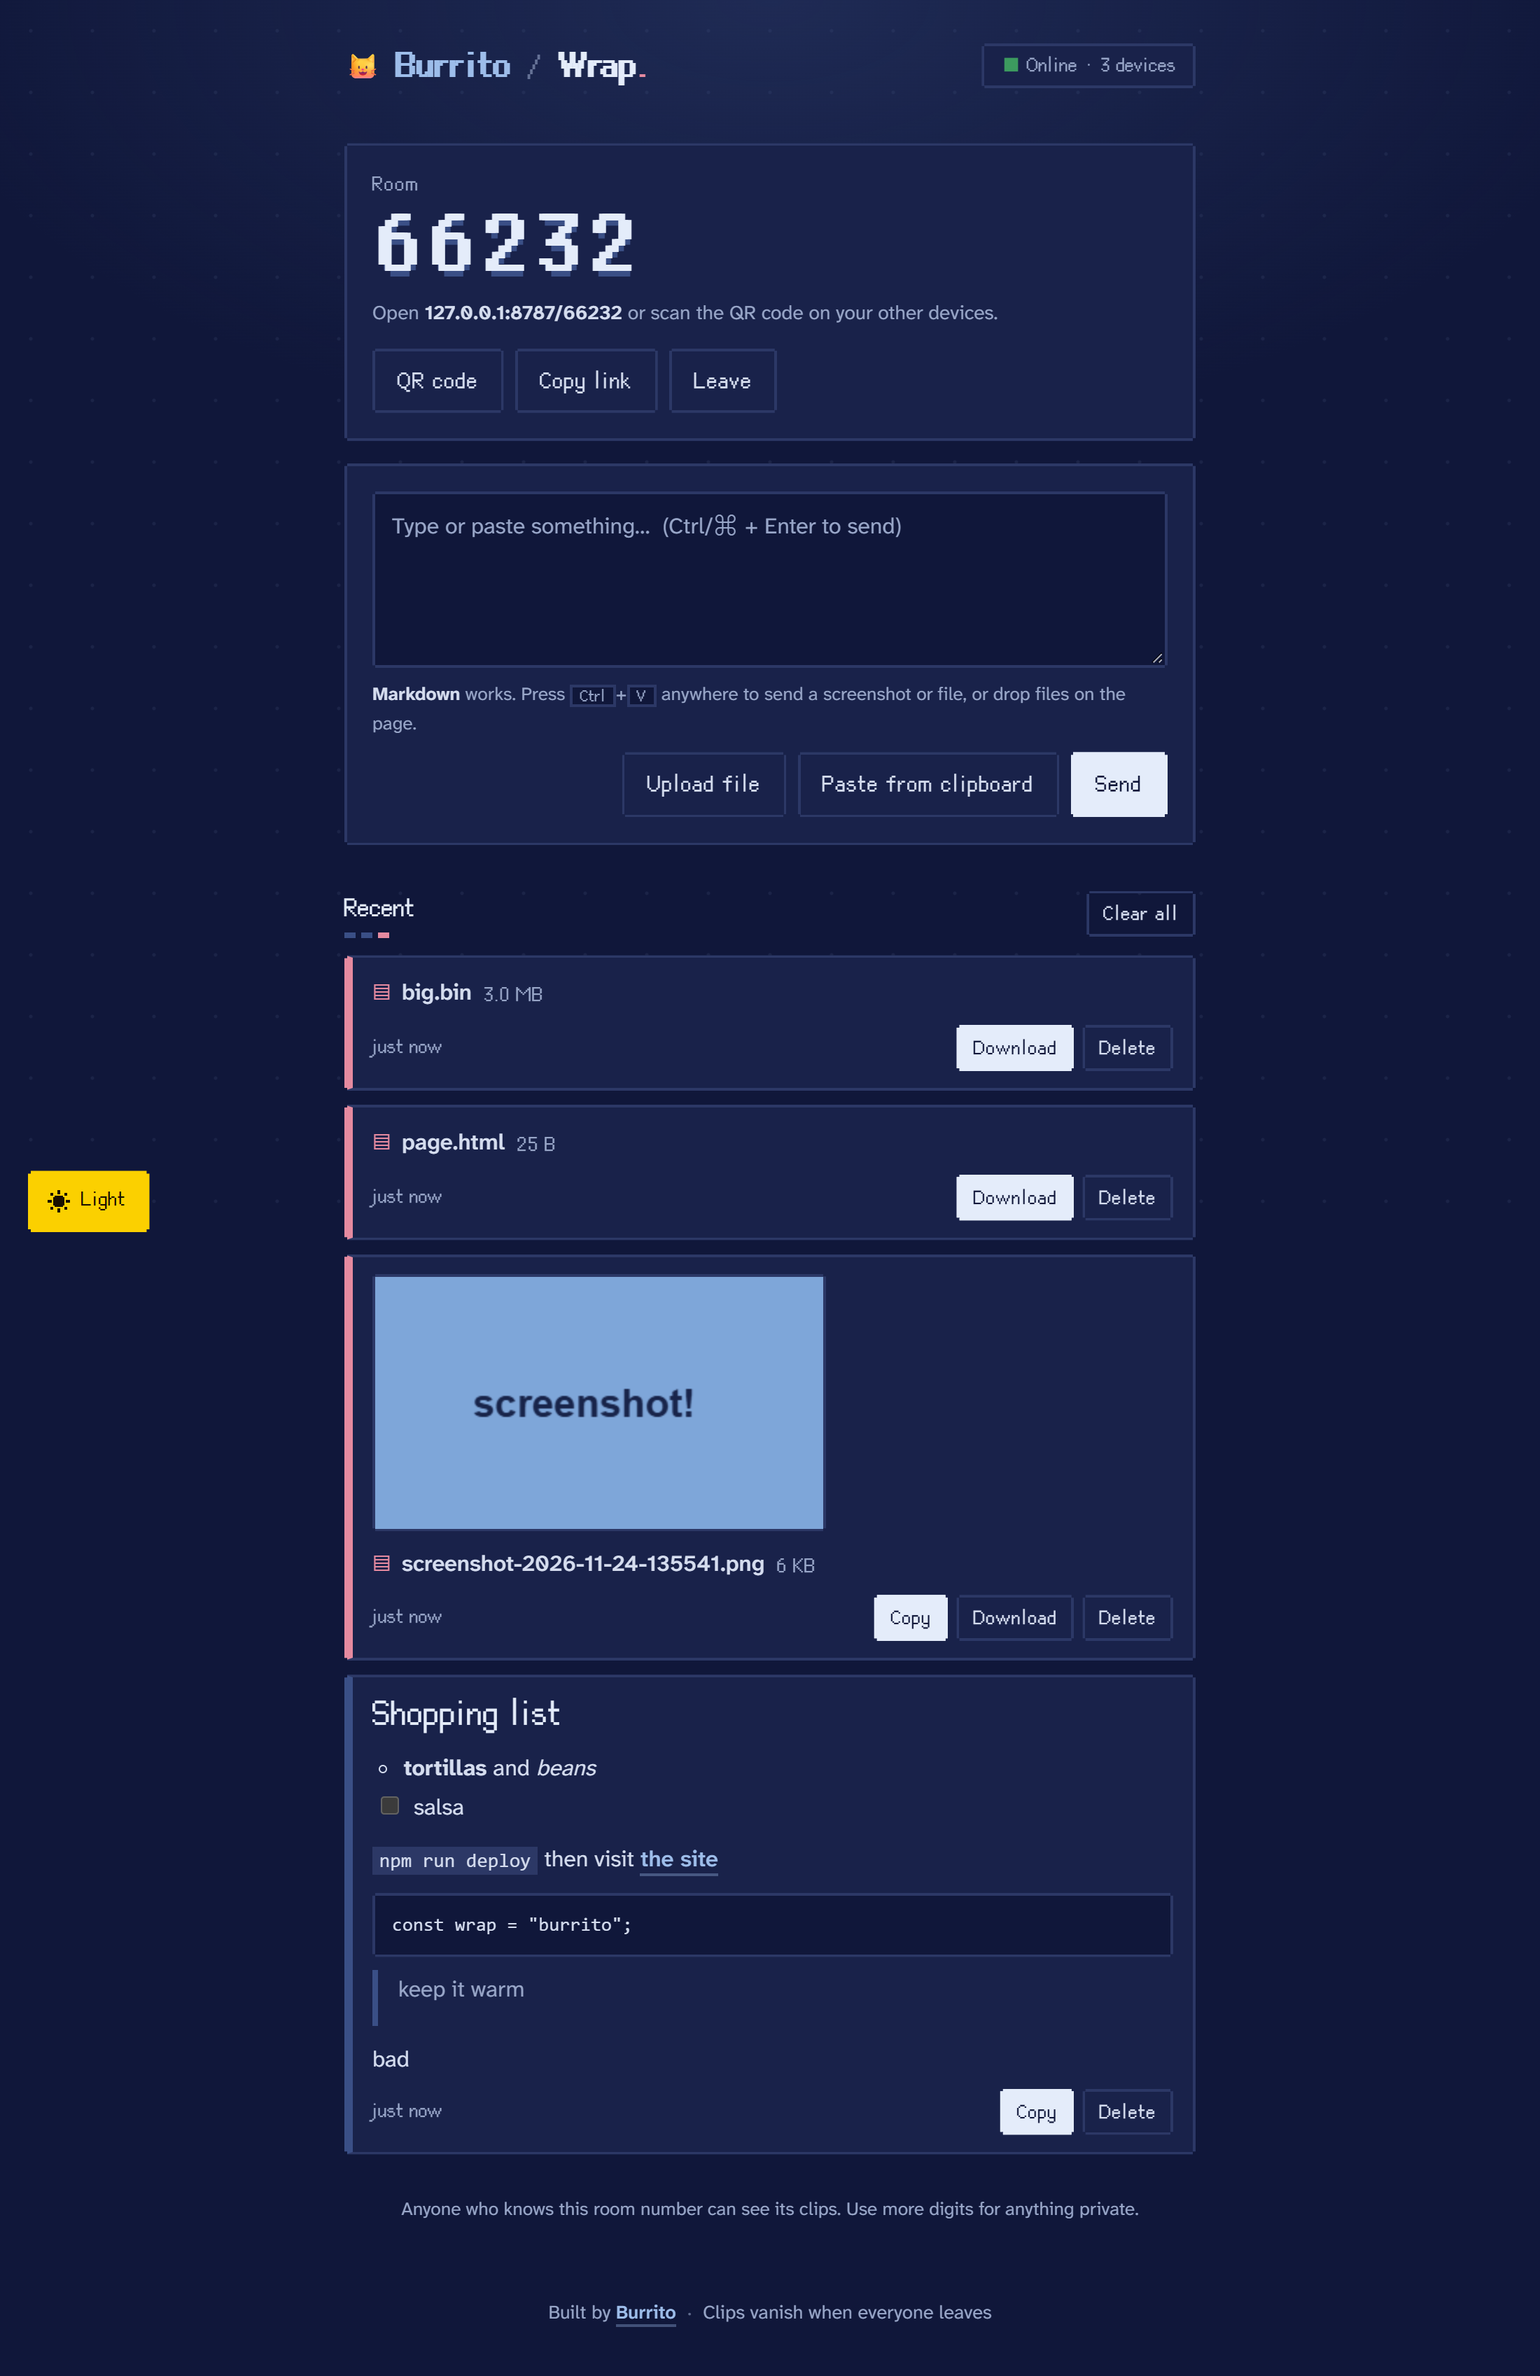
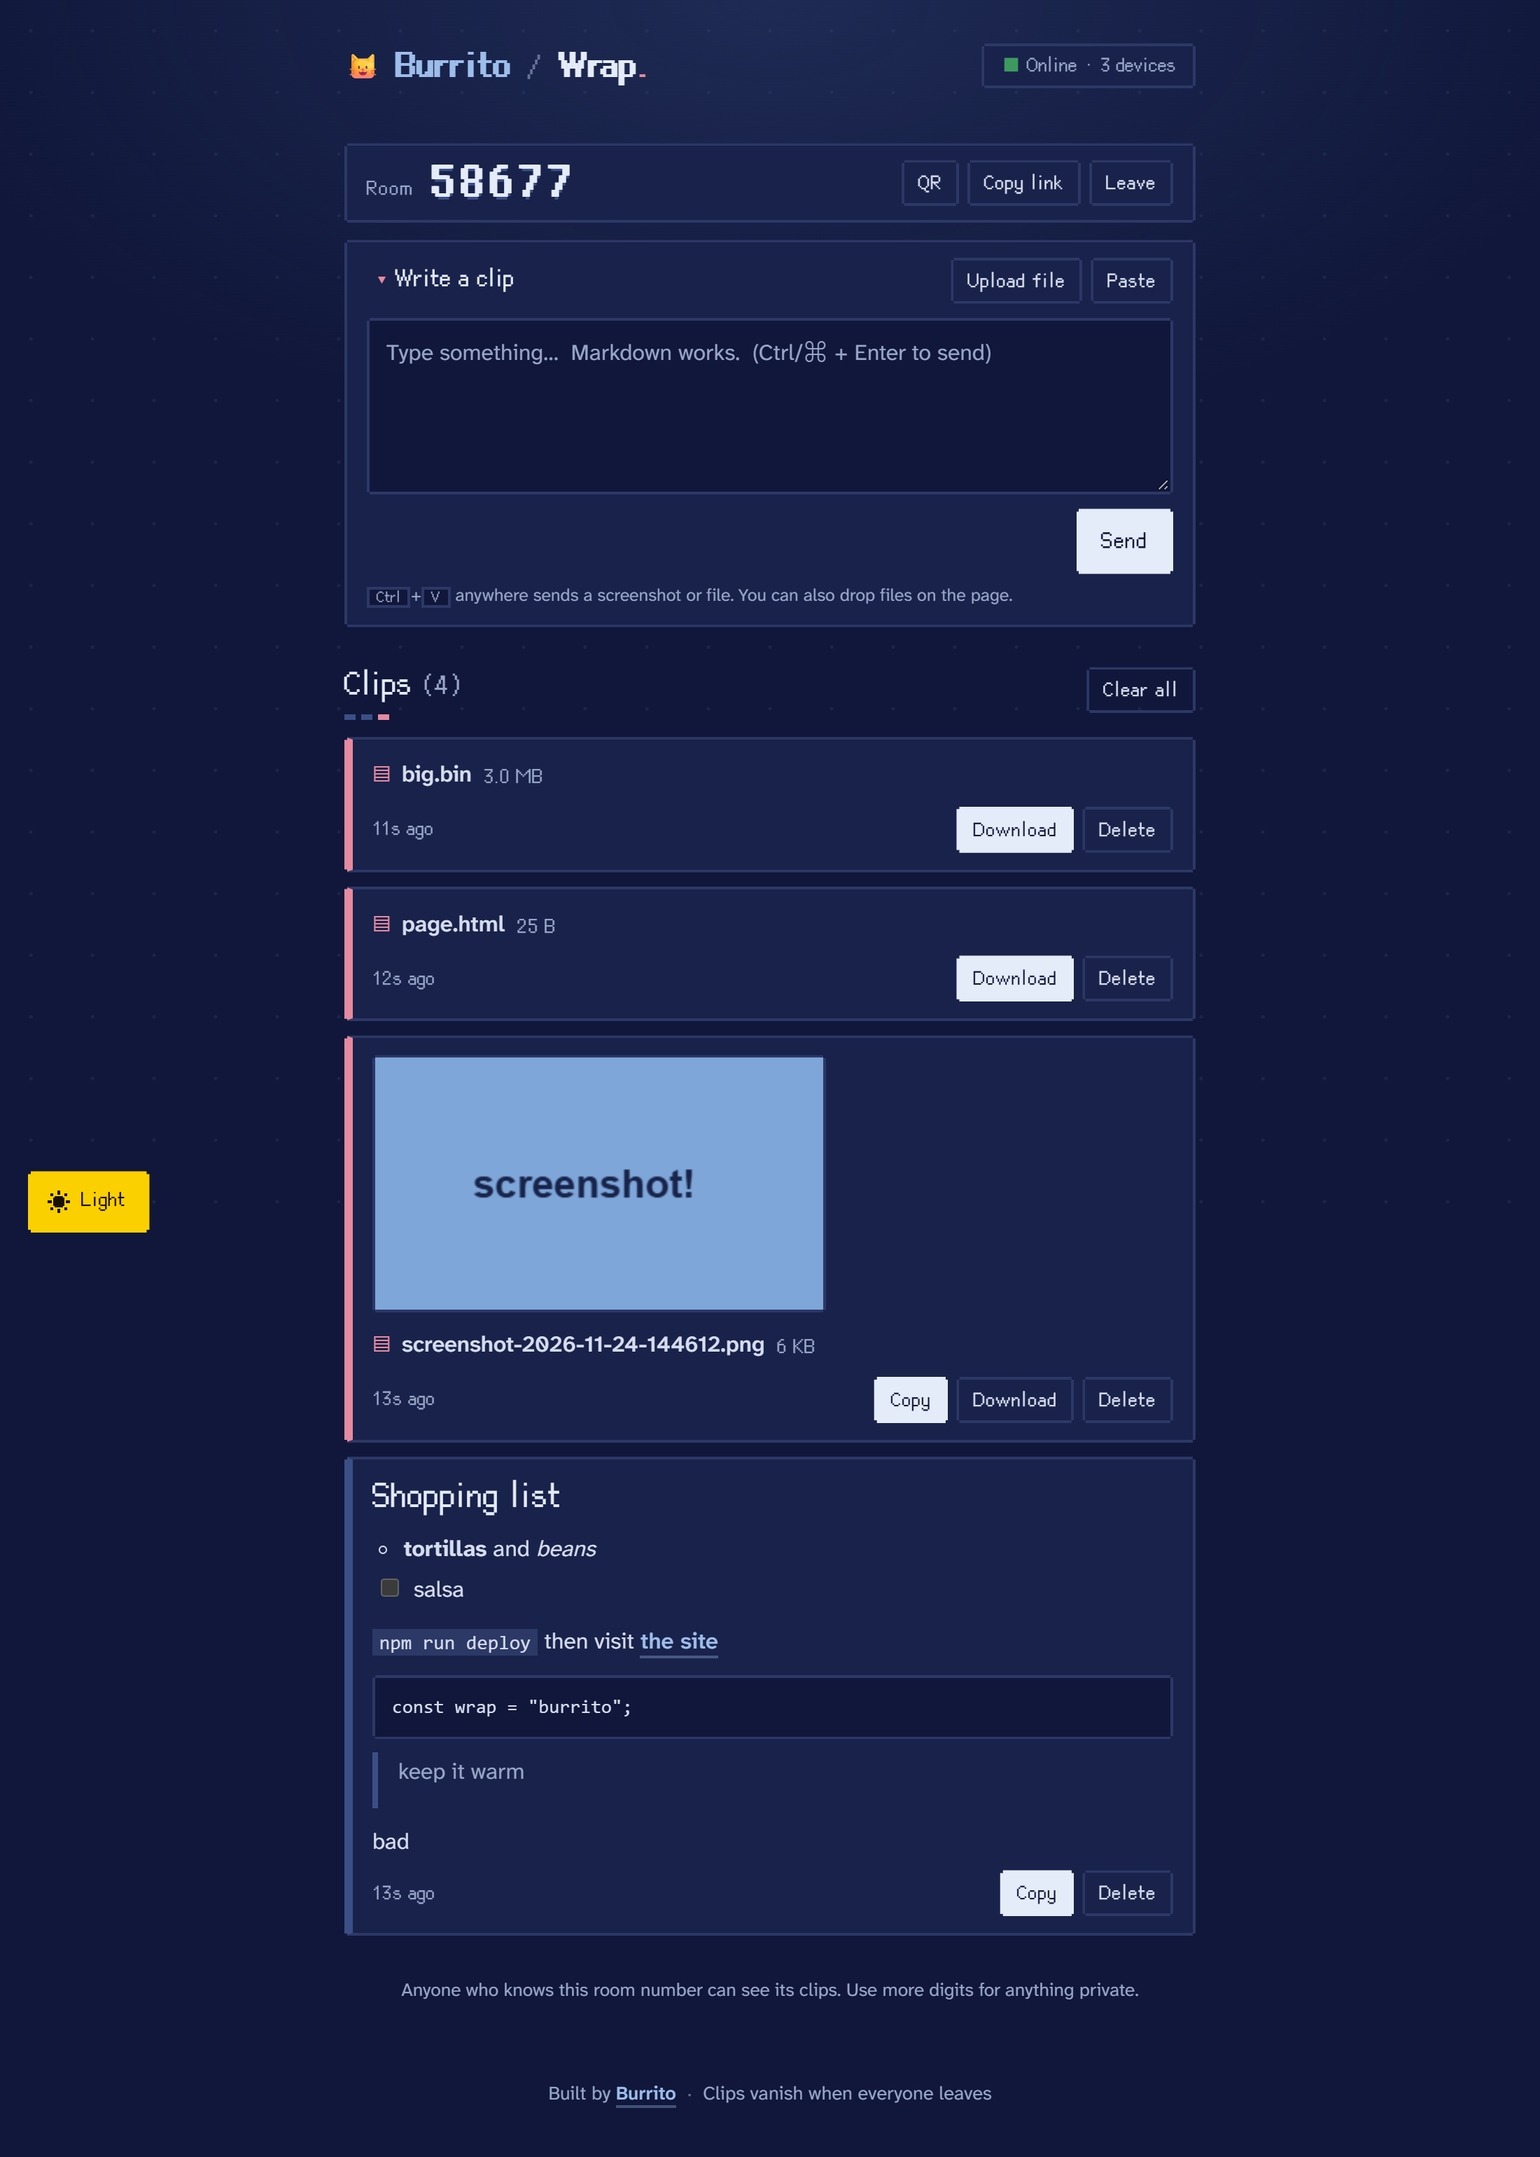
Shrink the room card and make the composer foldable
The room number and sharing buttons now sit in one slim bar, with the
link shown inside the QR panel. The composer folds to a single row
(Upload and Paste stay visible, Ctrl+V still works) and remembers its
state, so the clip list takes most of the page.

diff --git a/public/index.html b/public/index.html
@@ -53,36 +53,47 @@
 
     <!-- Room screen -->
     <section id="room" hidden>
-      <div class="tile pair">
-        <div class="pair-main">
-          <div class="label">Room</div>
-          <div id="code" class="room-code"></div>
-          <div class="hint">Open <b id="room-link"></b> or scan the QR code on your other devices.</div>
+      <!-- Slim room bar: number on the left, sharing tools on the right -->
+      <div class="tile roombar">
+        <div class="roombar-id">
+          <span class="label">Room</span>
+          <span id="code" class="room-code"></span>
         </div>
-        <div class="pair-actions">
-          <button id="show-qr" class="btn">QR code</button>
-          <button id="copy-link" class="btn">Copy link</button>
-          <button id="leave" class="btn ghost">Leave</button>
+        <div class="roombar-actions">
+          <button id="show-qr" class="btn small" aria-expanded="false">QR</button>
+          <button id="copy-link" class="btn small">Copy link</button>
+          <button id="leave" class="btn small ghost">Leave</button>
         </div>
-        <div id="qr" class="qr" hidden></div>
+        <div id="qr" class="qr" hidden>
+          <div id="qr-code"></div>
+          <p class="hint">Scan, or open <b id="room-link"></b> on your other devices.</p>
+        </div>
       </div>
 
+      <!-- Composer: folds down to a single row so the clips get the space -->
       <form id="send-form" class="tile compose">
-        <textarea id="text" rows="4" placeholder="Type or paste something…  (Ctrl/⌘ + Enter to send)"></textarea>
-        <p class="compose-hint">
-          <b>Markdown</b> works. Press <kbd>Ctrl</kbd>+<kbd>V</kbd> anywhere to send a screenshot or file, or drop files on the page.
-        </p>
-        <div class="row end">
-          <input id="file-input" type="file" multiple hidden>
-          <button type="button" id="attach" class="btn">Upload file</button>
-          <button type="button" id="paste" class="btn">Paste from clipboard</button>
-          <button type="submit" class="btn primary">Send</button>
+        <div class="compose-bar">
+          <button type="button" id="compose-toggle" class="compose-toggle" aria-expanded="false" aria-controls="compose-body">
+            <span class="chev" aria-hidden="true">▸</span> Write a clip
+          </button>
+          <div class="compose-quick">
+            <input id="file-input" type="file" multiple hidden>
+            <button type="button" id="attach" class="btn small">Upload file</button>
+            <button type="button" id="paste" class="btn small">Paste</button>
+          </div>
         </div>
+        <div id="compose-body" class="compose-body" hidden>
+          <textarea id="text" rows="4" placeholder="Type something…  Markdown works.  (Ctrl/⌘ + Enter to send)"></textarea>
+          <div class="row end">
+            <button type="submit" class="btn primary">Send</button>
+          </div>
+        </div>
+        <p class="compose-hint"><kbd>Ctrl</kbd>+<kbd>V</kbd> anywhere sends a screenshot or file. You can also drop files on the page.</p>
         <div id="uploads" class="uploads" hidden></div>
       </form>
 
       <div class="list-head">
-        <h2 class="section-title">Recent</h2>
+        <h2 class="section-title">Clips <span id="clip-count" class="count"></span></h2>
         <button id="clear" class="btn ghost small">Clear all</button>
       </div>
       <ul id="clips" class="clips"></ul>

diff --git a/public/style.css b/public/style.css
@@ -272,21 +272,38 @@ button, input, textarea { font: inherit; color: inherit; }
 
 /* ---------- Room screen ---------- */
 
-.pair { display: grid; gap: 14px; }
-.pair-actions { display: flex; flex-wrap: wrap; gap: 8px; }
+/* Slim room bar */
+.roombar {
+  display: flex;
+  flex-wrap: wrap;
+  align-items: center;
+  justify-content: space-between;
+  gap: 8px 14px;
+  padding: 10px 14px;
+  margin-bottom: 12px;
+}
+.roombar-id { display: flex; align-items: baseline; gap: 10px; }
+.roombar-actions { display: flex; flex-wrap: wrap; gap: 6px; }
 
-/* Big pixel digits with the blue offset shadow from the burrito.rip title */
+/* Pixel digits with the blue offset shadow from the burrito.rip title */
 .room-code {
   font-family: var(--font-pixel);
-  font-size: 3.4rem;
-  line-height: 1.1;
-  letter-spacing: 0.12em;
+  font-size: 1.9rem;
+  line-height: 1;
+  letter-spacing: 0.1em;
   color: var(--navy);
   text-shadow: var(--px-bold), 0.07em 0.07em 0 var(--fur);
-  margin: 2px 0 6px;
 }
 
-.qr { grid-column: 1 / -1; display: flex; justify-content: center; }
+.qr {
+  flex-basis: 100%;
+  display: flex;
+  flex-direction: column;
+  align-items: center;
+  gap: 4px;
+  padding: 8px 0 4px;
+  text-align: center;
+}
 .qr svg {
   width: 220px; height: 220px;
   background: #fff; padding: 12px;
@@ -307,7 +324,9 @@ textarea {
 textarea:focus { outline: none; border-color: var(--steel); }
 textarea::placeholder { color: var(--muted); }
 
-.list-head { display: flex; justify-content: space-between; align-items: center; margin: 32px 0 12px; }
+.list-head { display: flex; justify-content: space-between; align-items: center; margin: 24px 0 12px; }
+.list-head .section-title { font-size: 1.35rem; }
+.count { color: var(--muted); font-size: 0.8em; }
 
 .clips { list-style: none; margin: 0; padding: 0; display: flex; flex-direction: column; gap: 10px; }
 .clip {
@@ -404,8 +423,25 @@ a.btn { display: inline-block; text-decoration: none; }
 
 /* ---------- Composer extras ---------- */
 
-.compose-hint { color: var(--muted); font-size: 0.82rem; margin: -2px 0 10px; }
-.compose-hint b { color: var(--text); }
+/* Foldable composer */
+.compose { padding: 10px 14px; margin-bottom: 12px; }
+.compose-bar { display: flex; flex-wrap: wrap; align-items: center; justify-content: space-between; gap: 8px; }
+.compose-toggle {
+  background: none;
+  border: 0;
+  padding: 4px 2px;
+  cursor: pointer;
+  font-family: var(--font-pixel);
+  font-size: 1rem;
+  color: var(--navy);
+}
+.compose-toggle:hover { color: var(--steel); }
+.compose-toggle:focus-visible { outline: 2px solid var(--steel); outline-offset: 2px; }
+.chev { display: inline-block; transition: transform 0.16s ease-out; color: var(--nose); }
+.compose.open .chev { transform: rotate(90deg); }
+.compose-quick { display: flex; gap: 6px; }
+.compose-body { margin-top: 10px; }
+.compose-hint { color: var(--muted); font-size: 0.78rem; margin: 6px 0 0; }
 kbd {
   font-family: var(--font-pixel);
   font-size: 0.8em;
@@ -499,7 +535,8 @@ kbd {
   .crumb-mark { font-size: 1rem; }
   .crumb-divider { font-size: 1.05rem; }
   .app-footer { margin-top: -80px; padding-bottom: 88px; }
-  .room-code { font-size: 2.8rem; }
+  .room-code { font-size: 1.6rem; }
+  .compose-hint { display: none; } /* no Ctrl+V on phones */
   .code-input { font-size: 2.4rem; }
   .theme-toggle { padding: 10px; }
   .theme-label { display: none; }

diff --git a/public/app.js b/public/app.js
@@ -155,6 +155,7 @@ function renderClips(newId) {
   const clips = [...state.clips.values()].sort((a, b) => b.ts - a.ts);
   $("empty").hidden = clips.length > 0;
   $("clear").hidden = clips.length === 0;
+  $("clip-count").textContent = clips.length ? `(${clips.length})` : "";
 
   for (const clip of clips) {
     const isFile = clip.kind === "file";
@@ -284,13 +285,31 @@ setInterval(() => {
 
 function toggleQR() {
   const box = $("qr");
-  if (!box.hidden) { box.hidden = true; return; }
-  const qr = qrcode(0, "M");
-  qr.addData(shareLink());
-  qr.make();
-  box.innerHTML = qr.createSvgTag({ cellSize: 4, margin: 0, scalable: true });
-  box.hidden = false;
+  const open = box.hidden;
+  if (open) {
+    const qr = qrcode(0, "M");
+    qr.addData(shareLink());
+    qr.make();
+    $("qr-code").innerHTML = qr.createSvgTag({ cellSize: 4, margin: 0, scalable: true });
+  }
+  box.hidden = !open;
+  $("show-qr").setAttribute("aria-expanded", String(open));
 }
+
+// ---------- Composer folding (remembered per device) ----------
+
+const COMPOSE_KEY = "burritowrap:compose";
+
+function setComposer(open, focus = false) {
+  $("compose-body").hidden = !open;
+  $("compose-toggle").setAttribute("aria-expanded", String(open));
+  $("send-form").classList.toggle("open", open);
+  save(COMPOSE_KEY, open ? "open" : "closed");
+  if (open && focus) $("text").focus();
+}
+
+$("compose-toggle").onclick = () => setComposer($("compose-body").hidden, true);
+setComposer(load(COMPOSE_KEY) === "open");
 
 // ---------- Connection ----------
 
@@ -380,6 +399,8 @@ function enterRoom(code) {
   $("start").hidden = true;
   $("room").hidden = false;
   $("qr").hidden = true;
+  $("show-qr").setAttribute("aria-expanded", "false");
+  $("clip-count").textContent = "";
   $("code").textContent = code;
   $("room-link").textContent = `${location.host}/${code}`;
   $("clips").textContent = "";
@@ -492,7 +513,7 @@ $("paste").onclick = async () => {
     $("send-form").requestSubmit();
   } catch {
     toast("Clipboard access blocked. Press Ctrl+V instead.");
-    $("text").focus();
+    setComposer(true, true);
   }
 };
 
@@ -509,7 +530,7 @@ document.addEventListener("paste", (e) => {
   } else if (text && e.target !== $("text") && !(e.target instanceof HTMLInputElement)) {
     e.preventDefault();
     $("text").value += text;
-    $("text").focus();
+    setComposer(true, true); // unfold so you can check the text before sending
   }
 });
 
